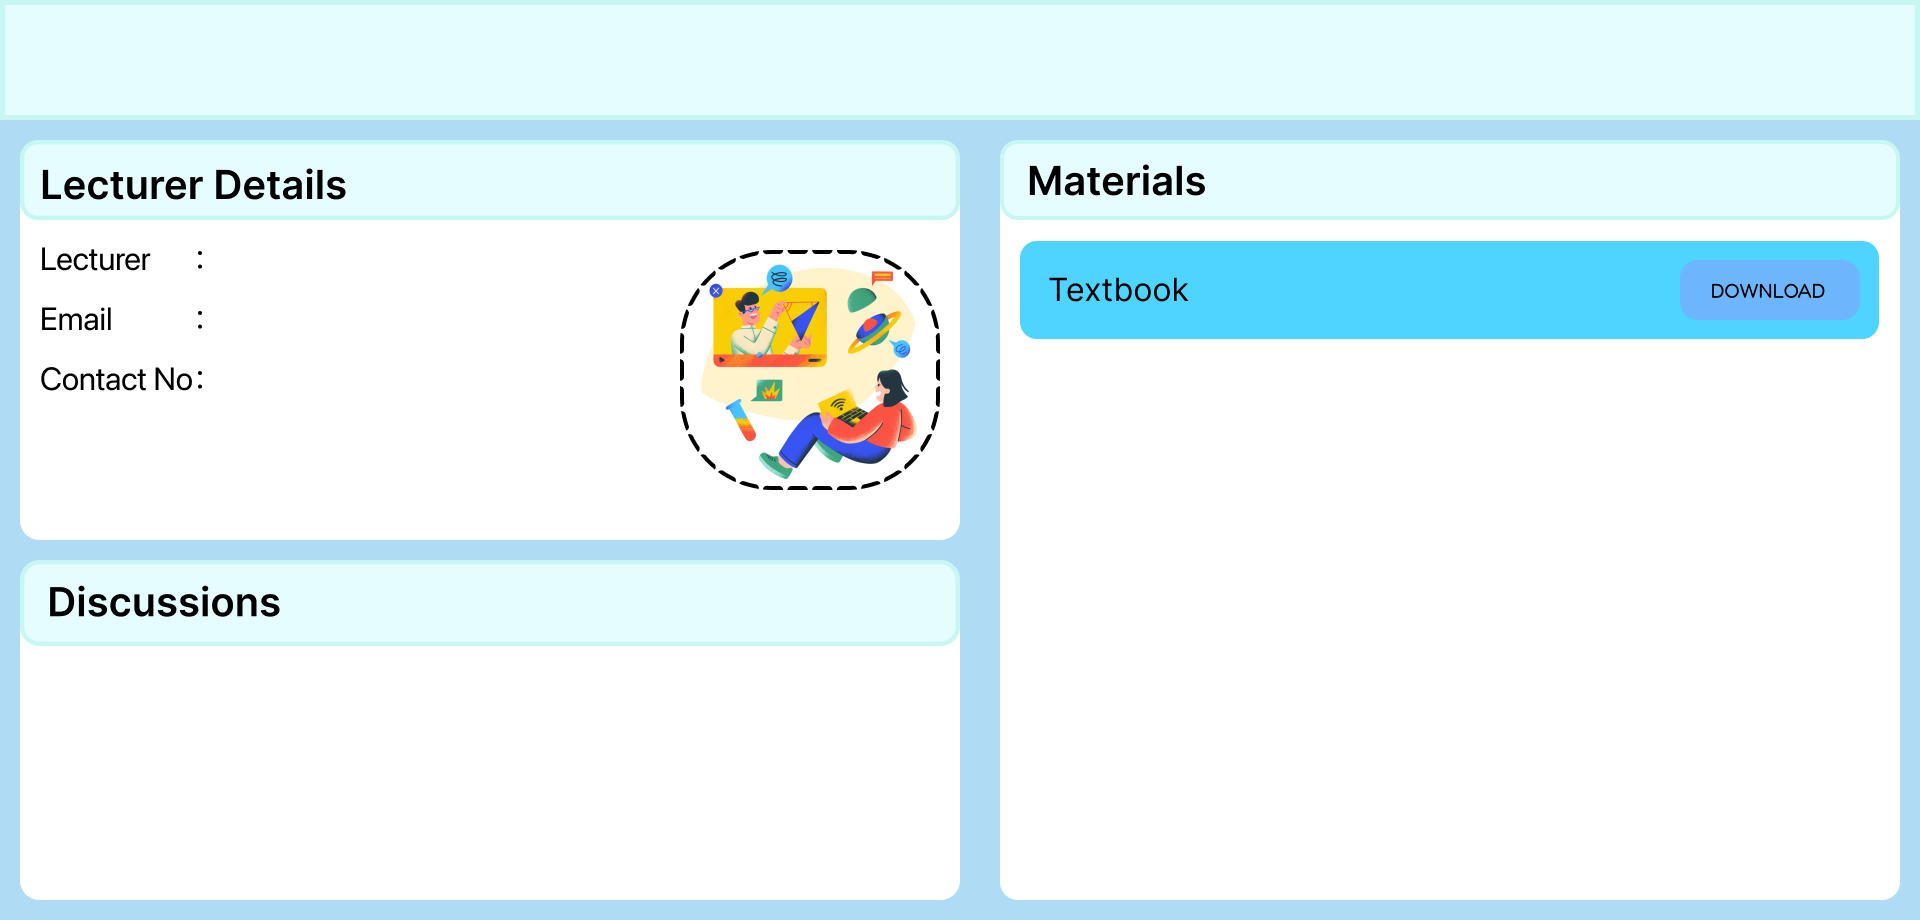
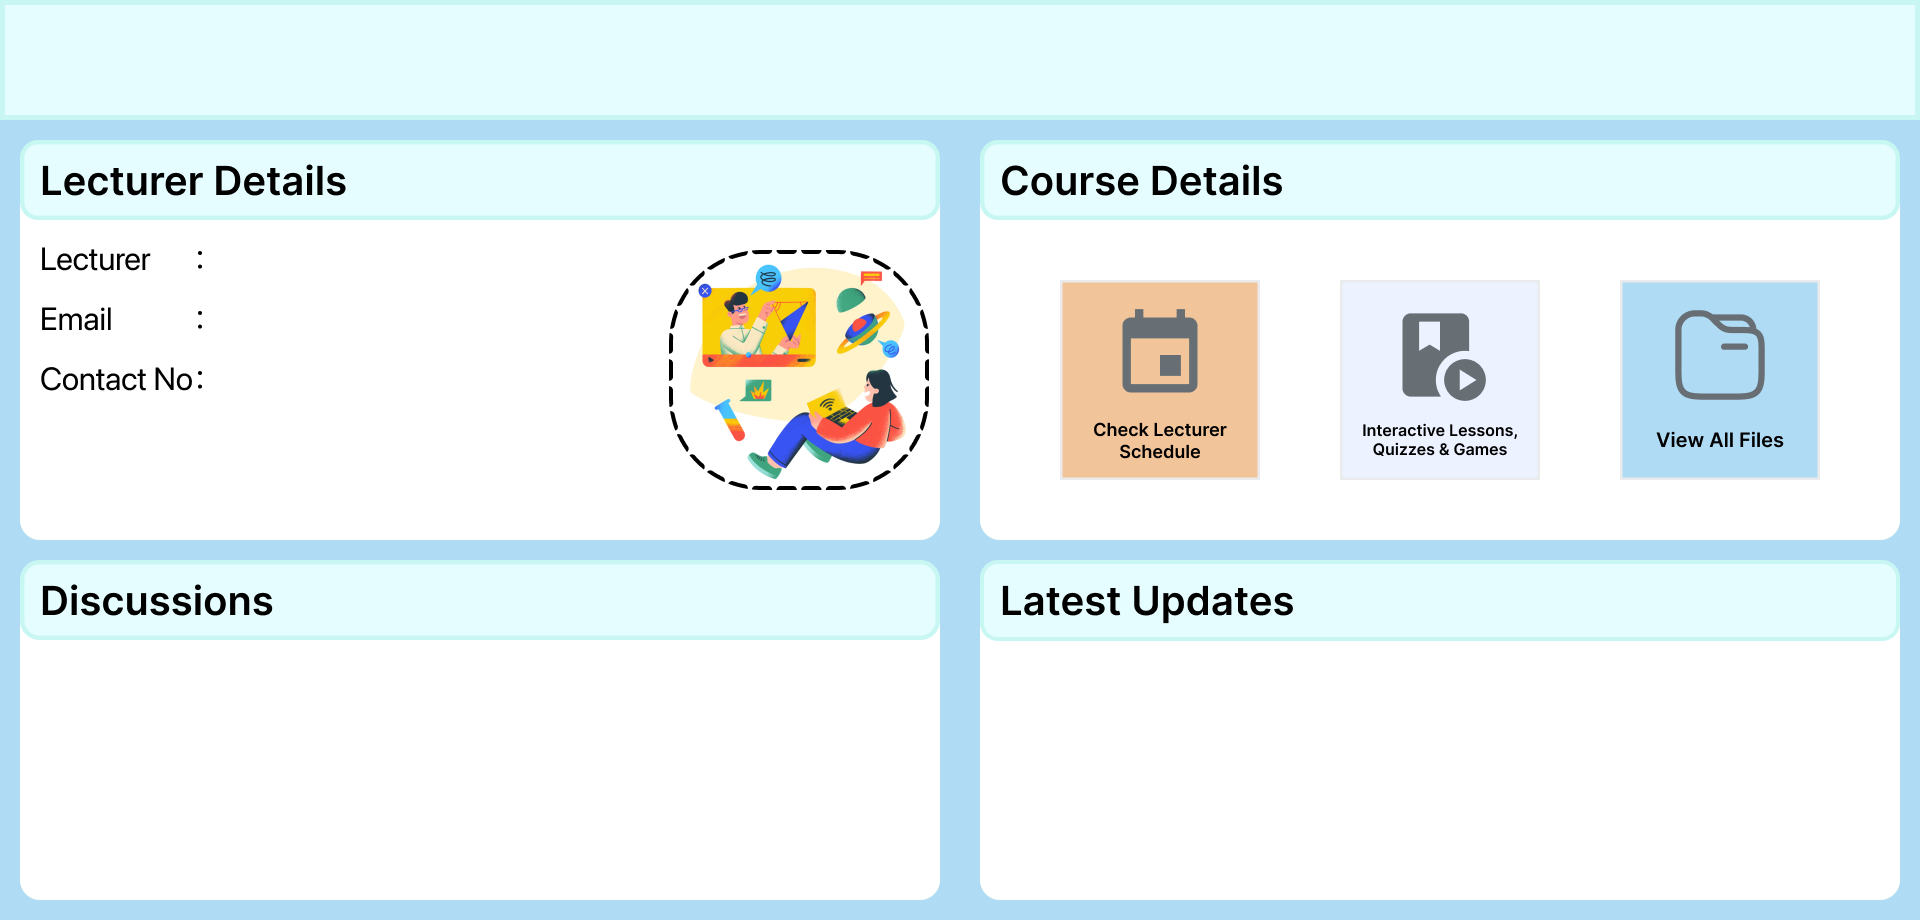
starting up courseview

Changed region(s): [[0.0, 0.1522, 1.0, 0.9739], [0.0312, 0.1826, 0.1875, 0.213]]

diff --git a/main.py b/main.py
@@ -1731,8 +1731,11 @@ class CourseView(Canvas):
                         bg="#F6F5D7", name="courseview", autostyle=False)
         self.controller = controller
         self.parent = parent
-
         gridGenerator(self, 96, 46, WHITE)
+        self.createFrames()
+        self.canvas = self.controller.widgetsDict["coursescanvas"]
+
+    def createFrames(self):
         self.controller.frameCreator(root=self,
                                      xpos=0, ypos=0,
                                      framewidth=1920, frameheight=920, classname="singlecourseviewframe"
@@ -1748,8 +1751,6 @@ class CourseView(Canvas):
                                       classname="coursescanvas", bgcolor="#F6F5D7",
                                       isTransparent=True, transparentcolor="#efefef"
                                       )
-        self.canvas = self.controller.widgetsDict["coursescanvas"]
-        self.loadcoursebuttons()
 
     def loadCourses(self, coursecode: str):
         self.canvas.grid_remove()
@@ -1761,6 +1762,8 @@ class CourseView(Canvas):
             [self.exitMainFrame()]
         )
         coursecode = coursecode.lower()
+        staticBtns = ["checkschedule", "gotolearninghub",
+                      "viewcoursefiles", "exitbutton"]
         for widgetname, widget in self.mainframe.children.items():
             if isinstance(widget, Label) and not widgetname.startswith("!la"):
                 if not widgetname.startswith(f"{coursecode}") and not widgetname.startswith("loadedcoursebg"):
@@ -1770,7 +1773,7 @@ class CourseView(Canvas):
                     # print("Getting loaded", widgetname)
                     widget.grid()
             if isinstance(widget, Button):
-                if not widgetname.startswith(f"{coursecode}") and not widgetname.startswith("exitbutton"):
+                if not widgetname.startswith(f"{coursecode}") and widgetname not in staticBtns:
                     # print("Getting removed", widgetname)
                     widget.grid_remove()
                 if widgetname.startswith(f"{coursecode}"):
@@ -1779,9 +1782,10 @@ class CourseView(Canvas):
 
     def postLogin(self, data: dict, prisma: Prisma = None):
         modules = data["modules"]
-        role = data["role"]
-        if role == "student":
+        self.role = data["role"]
+        if self.role == "student":
             lecturerinfo = data["lecturerinfo"]
+            modulecodes = []
             for i in range(3):
                 modulecode = modules[i][0]
                 moduletitle = modules[i][1]
@@ -1791,50 +1795,58 @@ class CourseView(Canvas):
                 lecturerphone = lecturerinfo[i][2]
                 self.detailsCreator(modulecode, moduletitle, moduledesc,
                                     lecturername, lectureremail, lecturerphone)
-        elif role == "lecturer":
+                modulecodes.append(modulecode.lower())
+            self.loadcoursebuttons(modulecodes)
+        elif self.role == "lecturer":
             studentinfo = data["studentinfo"]
+            modulecodes = []
             for i in range(len(modules)):
                 modulecode = modules[i][0]
                 moduletitle = modules[i][1]
                 moduledesc = modules[i][2]
-                # print(modulecode, moduletitle, moduledesc)
+                print(modulecode, moduletitle, moduledesc)
+                modulecodes.append(modulecode.lower())
             for i in range(len(studentinfo)):
                 studentname = studentinfo[i][0]
                 studentemail = studentinfo[i][1]
                 studentphone = studentinfo[i][2]
                 print(studentname, studentemail, studentphone)
-        self.loadcoursebuttons()
+            self.loadcoursebuttons(modulecodes)
 
     def detailsCreator(self, modulecode, moduletitle, moduledesc, lecturername, lectureremail, lecturerphone):
         tupleofinfo = (modulecode, moduletitle, moduledesc,
                        lecturername, lectureremail, lecturerphone)
-        self.controller.textElement(
-            imagepath=r"Assets\My Courses\coursetitlebg.png", xpos=20, ypos=20,
-            classname=f"{modulecode}_title", root=self.mainframe, text=moduletitle, size=60, xoffset=-4,
-        )
-        # lecturerfields
-        # name
-        self.controller.textElement(
-            imagepath=r"Assets\My Courses\whitebgtextfield.png", xpos=220, ypos=240,
-            classname=f"{modulecode}_lecname", root=self.mainframe, text=lecturername, size=32, xoffset=-1
-        )
-        # email
-        self.controller.textElement(
-            imagepath=r"Assets\My Courses\whitebgtextfield.png", xpos=220, ypos=300,
-            classname=f"{modulecode}_lecemail", root=self.mainframe, text=lectureremail, size=26, xoffset=-1,
-        )
-        # phone
-        self.controller.textElement(
-            imagepath=r"Assets\My Courses\whitebgtextfield.png", xpos=220, ypos=360,
-            classname=f"{modulecode}_lecphone", root=self.mainframe, text=lecturerphone, size=28, xoffset=-1,
-        )
-        self.controller.buttonCreator(
-            imagepath=r"Assets\My Courses\go_to_discussions.png", xpos=700, ypos=780,
-            classname=f"{modulecode}_discussions", root=self.mainframe,
-            buttonFunction=lambda: self.loadDiscussionsView(modulecode)
-        )
+        positions = [
+            (f"{modulecode}_title", moduletitle, 60, -4, 20,
+             20, r"Assets\My Courses\coursetitlebg.png"),
+            (f"{modulecode}_lecname", lecturername, 32, -1, 220,
+             240, r"Assets\My Courses\whitebgtextfield.png"),
+            (f"{modulecode}_lecemail", lectureremail, 26, -1,
+             220, 300, r"Assets\My Courses\whitebgtextfield.png"),
+            (f"{modulecode}_lecphone", lecturerphone, 28, -1,
+             220, 360, r"Assets\My Courses\whitebgtextfield.png")
+        ]
+        for classname, text, size, xoffset, xpos, ypos, imagepath in positions:
+            self.controller.textElement(imagepath=imagepath, xpos=xpos, ypos=ypos,
+                                        classname=classname, root=self.mainframe, text=text, size=size, xoffset=xoffset)
 
-    def loadDiscussionsView(self, modulecode):
+        buttons = [
+            (f"{modulecode}checkschedule", r"Assets\My Courses\checklecschedule.png", 1060, 280,
+             lambda m=tupleofinfo: print(f"Check Schedule {m}")),
+            (f"{modulecode}_gotolearninghub", r"Assets\My Courses\gotolearninghub.png", 1340, 280,
+             lambda m=tupleofinfo: print(f"Go to Learning Hub {m}")),
+            (f"{modulecode}_viewcoursefiles", r"Assets\My Courses\loadcoursefiles.png", 1620, 280,
+             lambda m=tupleofinfo: print(f"View Course Files {m}")),
+            (f"{modulecode}_discussions", r"Assets\My Courses\go_to_discussions.png", 700, 780,
+             lambda: self.loadDiscussionsView(modulecode, moduletitle)),
+        ]
+        for classname, imagepath, xpos, ypos, buttonFunction in buttons:
+            self.controller.buttonCreator(imagepath=imagepath, xpos=xpos, ypos=ypos,
+                                          classname=classname, root=self.mainframe, buttonFunction=buttonFunction)
+        self.controller.buttonCreator(imagepath=r"Assets\My Courses\go_to_discussions.png", xpos=700, ypos=780,
+                                      classname=f"{modulecode}_discussions", root=self.mainframe, buttonFunction=lambda: self.loadDiscussionsView(modulecode, moduletitle))
+
+    def loadDiscussionsView(self, modulecode, moduletitle):
         toast = ToastNotification(
             title=f"Loading Discussions for {modulecode}",
             message="Please wait while we load the discussions for this module",
@@ -1853,7 +1865,7 @@ class CourseView(Canvas):
         discview.creationframe.grid_remove()
         discview.postviewframe.grid_remove()
         discview.modulecodevar.set(modulecode)
-        discview.menubutton.configure(text=modulecode)
+        discview.menubutton.configure(text=f"{modulecode} - {moduletitle}")
         toast2.show_toast()
         self.controller.show_canvas(DiscussionsView)
 
@@ -1861,16 +1873,37 @@ class CourseView(Canvas):
         self.mainframe.grid_remove()
         self.canvas.grid()
 
-    def loadcoursebuttons(self):
-        self.buttonImgLabels = [
-            (r"Assets\My Courses\CompArch.png", 40, 0,
-             "INT4004CEM", self.canvas, lambda: self.loadCourses("INT4004CEM")),
-            (r"Assets\My Courses\MathForCS.png", 40, 300,
-             "INT4068CEM", self.canvas, lambda: self.loadCourses("INT4068CEM")),
-            (r"Assets\My Courses\ObjectOP.png", 1040, 0,
-             "INT4003CEM", self.canvas, lambda: self.loadCourses("INT4003CEM")),
-        ]
-        self.controller.settingsUnpacker(self.buttonImgLabels, "button")
+    def loadcoursebuttons(self, modulecodes: list = None):
+        print(f"The modulecodes list is {modulecodes}")
+        btnDict = {
+            "int4004cem": (r"Assets\My Courses\CompArch.png", 40, 0,
+                           "int4004cem", self.canvas, lambda: self.loadCourses("INT4004CEM")),
+            "int4068cem": (r"Assets\My Courses\MathForCS.png", 40, 0,
+                           "int4068cem", self.canvas, lambda: self.loadCourses("INT4068CEM")),
+            "int4003cem": (r"Assets\My Courses\ObjectOP.png", 40, 0,
+                            "int4003cem", self.canvas, lambda: self.loadCourses("INT4003CEM")), 
+        }
+        c = self.controller
+        btnCount = 0
+        yCount = 0
+        for code in modulecodes:
+            yCount += 1 if btnCount == 2 else 0 # increment yCount if btnCount reaches 2
+            btnCount = btnCount if btnCount < 2 else 0
+            c.buttonCreator(
+                imagepath=btnDict[code][0],
+                xpos=btnDict[code][1] + (btnCount * 1000),
+                ypos=btnDict[code][2] + (yCount * 300),
+                classname=btnDict[code][3],
+                root=btnDict[code][4],
+                buttonFunction=btnDict[code][5]
+                )
+            btnCount += 1
+        try:
+            for i in ["int4004cem", "int4068cem", "int4003cem"]:
+                if i not in modulecodes:
+                    c.widgetsDict[i].grid_remove()
+        except:
+            pass
 
 
 class AnimatedStarBtn(Frame):
@@ -2223,20 +2256,27 @@ class DiscussionsView(Canvas):
         self.modulecodevar = StringVar()
         modules = prisma.module.find_many()
         listofvalues = []
+        self.valueDict = {}
         for module in modules:
             if module.moduleCode == "INT4007CEM/INT4009CEM":
                 continue
+            self.valueDict[f"{module.moduleCode}"] = f"{module.moduleCode} - {module.moduleTitle}"
             listofvalues.append(module.moduleCode)
         for value in listofvalues:
+            _text = self.valueDict[f"{value}"]
             self.menubuttonmenu.add_radiobutton(
-                label=value, variable=self.modulecodevar, value=value,
+                label=_text,
+                variable=self.modulecodevar,
+                value=value,
                 command=lambda: [
-                    self.menubutton.config(text=self.modulecodevar.get()),
+                    self.menubutton.config(
+                        text=self.valueDict[self.modulecodevar.get()]),
                     self.callLoadLatestPosts(self.modulecodevar.get()),
                 ]
             )
         self.modulecodevar.set("INT4004CEM")
         self.menubutton["menu"] = self.menubuttonmenu
+        self.menubutton.config(text=self.valueDict[self.modulecodevar.get()])
         heightofframe = len(postContentList) * 100
         # minimum height of frame is 500 for 5 posts
         if heightofframe < 500:
